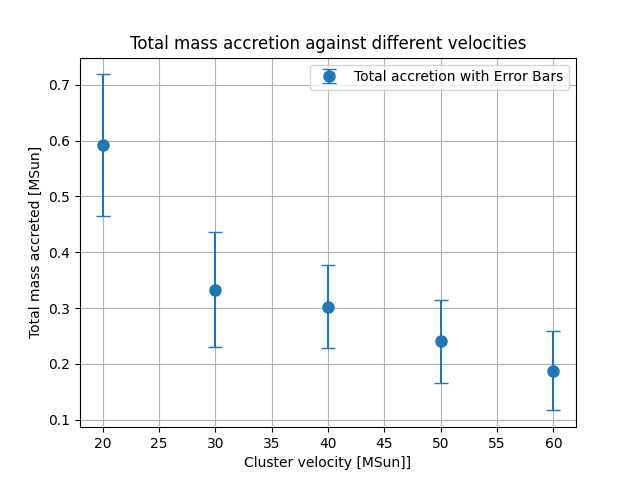
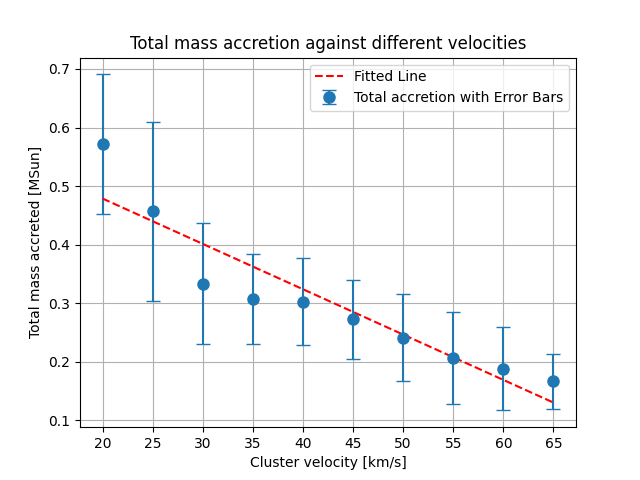
updated results analysis

diff --git a/AMUSE_project_YESSIR/results/alice_analysis.py b/AMUSE_project_YESSIR/results/alice_analysis.py
@@ -1,7 +1,12 @@
 #%%
 import os
+os.chdir('../src')
+
+import os
 import matplotlib.pyplot as plt
 import numpy as np
+from plotters import plot_evolution_mass_accretion, plot_relative_mass
+from amuse.units import units
 #%%
 
 
@@ -12,10 +17,11 @@ def extract_data_from_file(file_path):
     time = np.arange(1, len(data) + 1)
     return mass, time
 
+#%%
 
 
 # extract data from runs with different random seeds
-main_directory = "./alice/random_seeds"
+main_directory = "../results/alice/random_seeds"
 folders = os.listdir(main_directory)
 
 path_to_txt = []
@@ -28,13 +34,13 @@ for folder in folders:
             file_path = os.path.join(folder_path, file)
             all_path.append(file_path)
 
-all_path = np.reshape(all_path,(19,5))
+all_path = np.reshape(all_path,(19,10))
 
 #calculatating average and standard deviation for total accreted mass
 #with respect to each velocity
 total_accretion = []
 error = []
-for i in range(5):
+for i in range(10):
     mass_diff = []
     for j in range(19):
         mass,time = extract_data_from_file(all_path[j,i])
@@ -49,16 +55,40 @@ for i in range(5):
 #Plot result with errors 
 
 fig_path = os.path.join(main_directory,"total mass trend.png")
-v = np.array([20,30,40,50,60]) 
+v = np.array([20,25,30,35,40,45,50,55,60,65]) 
 
 plt.errorbar(v,total_accretion,yerr=error, fmt='o', \
              markersize=8, capsize=5, label='Total accretion with Error Bars')
 
-plt.xlabel('Cluster velocity [MSun]]')
+coefficients = np.polyfit(v, total_accretion, 1)
+poly_function = np.poly1d(coefficients)
+x_fit = np.linspace(min(v), max(v), 100)
+plt.plot(x_fit, poly_function(x_fit), color='red',linestyle = '--', label='Fitted Line')
+
+
+plt.xticks(v)
+plt.xlabel('Cluster velocity [km/s]')
 plt.ylabel('Total mass accreted [MSun]')
 plt.title('Total mass accretion against different velocities')
 plt.legend() 
 plt.grid(True)
 plt.savefig(fig_path)
 plt.show()
+# %%
+collision_velocity = 20
+file = '../results/alice/10000_stars/20 kms/Sink mass_20.00000000000005.txt'
+sinks_mass_evolution = np.loadtxt(file)
+sinks_mass_evolution = sinks_mass_evolution
+
+diff = sinks_mass_evolution[-1]- sinks_mass_evolution[0]
+
+plot_evolution_mass_accretion(sinks_mass_evolution = sinks_mass_evolution, 
+                                end_time = 2.8 | units.Myr, 
+                                time_step = 0.1 | units.Myr, 
+                                velocity = 20)
+
+plot_relative_mass(sinks_mass_evolution = sinks_mass_evolution, 
+                    velocity = 20
+                    )
+
 # %%
